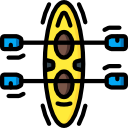
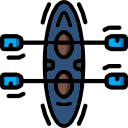
Multi teams

Changed region(s): [[0.3438, 0.0312, 0.6562, 0.9688]]

diff --git a/PhaserApp/js/GameScene.js b/PhaserApp/js/GameScene.js
@@ -2,15 +2,19 @@
  * Scene containing the game and the boats
  */
 class GameScene {
-    constructor(client) {
+    constructor(client, race) {
         this.client = client;
+        this.race = race;
         this.reactFromMovement = this.reactFromMovement.bind(this);
         this.boats = {};
     }
 
     preload() {
         game.load.spritesheet('background','assets/lake.png');
-        game.load.spritesheet('boat','assets/canoe_blue.png');
+        game.load.spritesheet('boat_blue','assets/canoe_blue.png');
+        game.load.spritesheet('boat_green','assets/canoe_green.png');
+        game.load.spritesheet('boat_red','assets/canoe_red.png');
+        game.load.spritesheet('boat_yellow','assets/canoe_yellow.png');
         game.load.image('buoy', 'assets/buoy.png');
         game.load.image('strip', 'assets/white.png');
         game.load.image('separator', 'assets/separator.png');
@@ -58,14 +62,15 @@ class GameScene {
             sep.body.collides([separatorsCollisionGroup, boatsCollisionGroup]);
         }
 
-        // Boat
+        // Boats
         let boat;
-        this.colors = ["blue", "yellow"];
-        for (let i = 1; i <= 2; i++) {
-            boat = new Boat(200, 400*i);
+        let color;
+        for (let i = 1; i <= this.race.nbPlayers(); i++) {
+            color = this.race.getColors()[i-1];
+            boat = new Boat(200, 400*i, color);
             boat.getBoat().body.setCollisionGroup(boatsCollisionGroup);
             boat.getBoat().body.collides([boatsCollisionGroup, separatorsCollisionGroup]);
-            this.boats[this.colors[i-1]] = boat;
+            this.boats[color] = boat;
         }
 
         // Listeners
@@ -78,7 +83,7 @@ class GameScene {
     }
 
     update() {
-        for (let color of this.colors) {
+        for (let color of this.race.getColors()) {
             this.boats[color].update(this.cursors);
         }
     }

diff --git a/PhaserApp/js/LaunchingScene.js b/PhaserApp/js/LaunchingScene.js
@@ -2,9 +2,10 @@
  * Scene before launching the game
  */
 class LaunchingScene {
-    constructor(client, startGame) {
+    constructor(client, race, startGame) {
         this.client = client;
         this.startGame = startGame;
+        this.race = race;
         this.addTeam = this.addTeam.bind(this);
         this.removeTeam = this.removeTeam.bind(this);
         this.logoDisplayed = true;
@@ -17,7 +18,6 @@ class LaunchingScene {
     preload() {
         game.load.image('background','assets/kayak_background.png');
         game.load.image('logo', 'assets/kayakRacerLogo.png');
-        game.load.image('sprite','assets/sprites/sprite.png');
         game.load.image('team_blue', 'assets/team_blue.png');
         game.load.image('team_green', 'assets/team_green.png');
         game.load.image('team_red', 'assets/team_red.png');
@@ -126,6 +126,7 @@ class LaunchingScene {
     addTeam(color) {
         this.teamImages[color].visible = true;
         this.teamTexts[color].visible = true;
+        this.race.addTeam(color);
 
         this.launchTimer();
     }
@@ -133,6 +134,7 @@ class LaunchingScene {
     removeTeam(color) {
         this.teamImages[color].visible = false;
         this.teamTexts[color].visible = false;
+        this.race.removeTeam(color);
 
         this.cutTimer();
     }

diff --git a/PhaserApp/js/main.js b/PhaserApp/js/main.js
@@ -1,13 +1,15 @@
 let game = new Phaser.Game(1920, 1080, Phaser.AUTO, document.getElementById('game'));
 let client = new Client();
+let race;
 
 function prepareGame() {
-    let launchingScene = new LaunchingScene(client, startGame);
+    race = new Race();
+    let launchingScene = new LaunchingScene(client, race, startGame);
     game.state.add('Launching', launchingScene, true);
 }
 
 function startGame() {
-    let gameScene = new GameScene(client);
+    let gameScene = new GameScene(client, race);
     game.state.add('Game', gameScene, true);
 }
 

diff --git a/PhaserApp/index.html b/PhaserApp/index.html
@@ -13,5 +13,6 @@
 <script src="js/LaunchingScene.js" type="text/javascript"></script>
 <script src="js/Client.js" type="text/javascript"></script>
 <script src="js/Boat.js" type="text/javascript"></script>
+<script src="js/Race.js" type="text/javascript"></script>
 <script src="js/main.js" type="text/javascript"></script>
 </html>

diff --git a/PhaserApp/js/Race.js b/PhaserApp/js/Race.js
@@ -7,7 +7,15 @@ class Race {
         this.teams.push(color);
     }
 
-    startRace() {
+    removeTeam(color) {
+        this.teams.splice(this.teams.indexOf(color), 1);
+    }
 
+    getColors() {
+        return this.teams;
+    }
+
+    nbPlayers() {
+        return this.teams.length;
     }
 }

diff --git a/PhaserApp/js/Boat.js b/PhaserApp/js/Boat.js
@@ -1,6 +1,6 @@
 class Boat {
-    constructor(x, y) {
-        this.boat = game.add.sprite(x, y,'boat');
+    constructor(x, y, color) {
+        this.boat = game.add.sprite(x, y,'boat_'+color);
         game.physics.p2.enable(this.boat);
         this.boat.body.angle = 90;
 

diff --git a/PhaserApp/js/Client.js b/PhaserApp/js/Client.js
@@ -1,4 +1,5 @@
-const ADDRESS = "10.212.111.96:8080";
+//const ADDRESS = "10.212.111.96:8080";
+const ADDRESS = "192.168.1.10:8080";
 
 /**
  * Client used to communicate with the server
